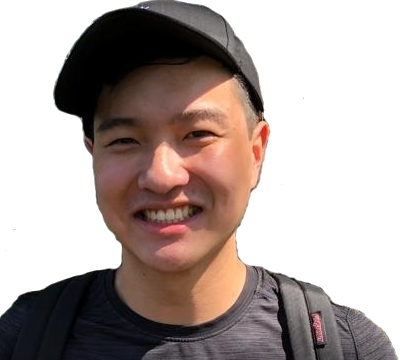
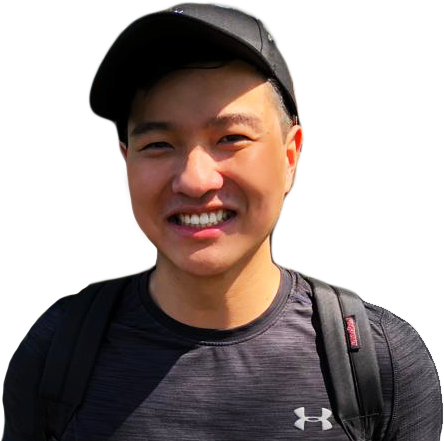
Added animations to about page and new pic

diff --git a/src/components/About.js b/src/components/About.js
@@ -1,11 +1,31 @@
 import React, { Component } from "react";
 import { Grid, Typography, withStyles, Fade } from "@material-ui/core";
 import PropTypes from "prop-types";
+import VizSensor from "react-visibility-sensor";
+import KeyboardArrowDownIcon from "@material-ui/icons/KeyboardArrowDown";
 import AboutPic from "../images/AboutPic.png";
 import aboutStyles from "../styles/aboutStyles";
 
+const cron = require("node-cron");
+
+// var task = cron.schedule("2 * * * * *", () => {
+//   console.log("will execute every other second until stopped");
+// });
+
+// task.stop();
+
+//todo: test on mobile: when small enough, change the topbar buttons to just iconbuttons + resize bottom images as they cause bleedingnpm s
+
 class About extends Component {
-  state = { showGreeting: false, showPic: false, showBio: false };
+  state = {
+    showGreeting: false,
+    showPic: false,
+    showBio: false,
+    showLearnMore: false,
+
+    showArrow: false,
+    scrollVisible: false,
+  };
 
   componentDidMount = () => {
     setTimeout(() => {
@@ -19,6 +39,20 @@ class About extends Component {
     setTimeout(() => {
       this.setState({ showBio: true });
     }, 3000);
+
+    setTimeout(() => {
+      this.setState({ showLearnMore: true });
+    }, 3000);
+
+    setTimeout(() => {
+      cron.schedule("*/1 * * * * *", () => {
+        this.setState({ showArrow: !this.state.showArrow });
+      });
+    }, 4000);
+  };
+
+  renderAboutCards = (visible) => {
+    this.setState({ scrollVisible: visible });
   };
 
   render() {
@@ -60,17 +94,72 @@ class About extends Component {
           <Grid item>
             <Fade in={this.state.showBio} timeout={3000}>
               <div style={{ textAlign: "center" }}>
-                <Typography variant="h4" className={classes.bioText}>
-                  Computer Science Student
-                </Typography>
-                <Typography variant="h6" className={classes.bioText}>
+                <Typography variant="h4">Computer Science Student</Typography>
+                <Typography variant="h6">
                   University of Florida, Class of 2022
                 </Typography>
               </div>
             </Fade>
           </Grid>
         </Grid>
+        <Grid
+          container
+          spacing={2}
+          direction="row"
+          justify="center"
+          alignItems="center"
+        >
+          <Grid item>
+            <Fade in={this.state.showLearnMore} timeout={3000}>
+              <Typography variant="h4" className={classes.greeting}>
+                Learn more about me
+              </Typography>
+            </Fade>
+          </Grid>
+        </Grid>
+        <Grid
+          container
+          spacing={2}
+          direction="row"
+          justify="center"
+          alignItems="center"
+        >
+          <Grid item>
+            <Fade in={this.state.showArrow} timeout={1000}>
+              <KeyboardArrowDownIcon fontSize="large" />
+            </Fade>
+          </Grid>
+        </Grid>
         <div style={{ height: 500 }}></div>
+        <Grid
+          container
+          spacing={2}
+          direction="row"
+          justify="center"
+          alignItems="center"
+        >
+          <VizSensor onChange={this.renderAboutCards}>
+            <React.Fragment>
+              <Grid item>
+                <Fade in={this.state.scrollVisible} timeout={10}>
+                  <h1>helooo</h1>
+                </Fade>
+              </Grid>
+              <Grid item>
+                <Fade in={this.state.scrollVisible} timeout={10}>
+                  <div style={{ textAlign: "center" }}>
+                    <Typography variant="h4">
+                      Computer Science Student
+                    </Typography>
+                    <Typography variant="h6">
+                      University of Florida, Class of 2022
+                    </Typography>
+                  </div>
+                </Fade>
+              </Grid>
+            </React.Fragment>
+          </VizSensor>
+        </Grid>
       </React.Fragment>
     );
   }
